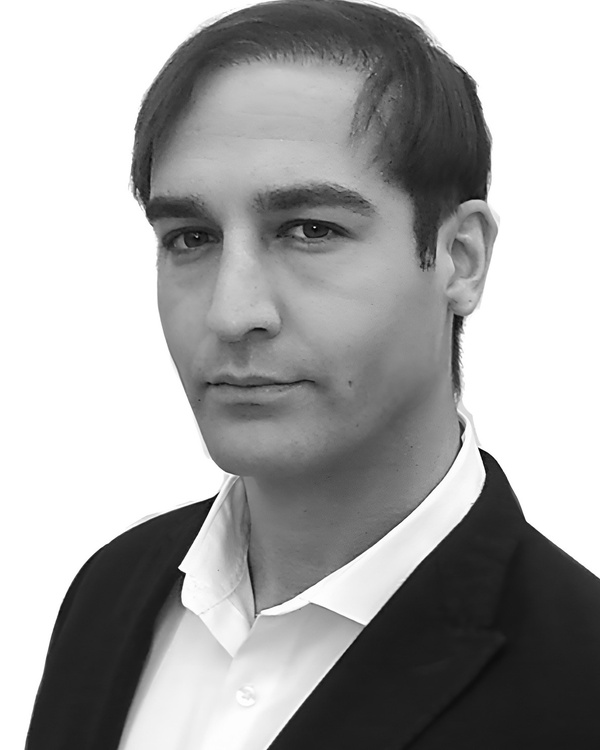
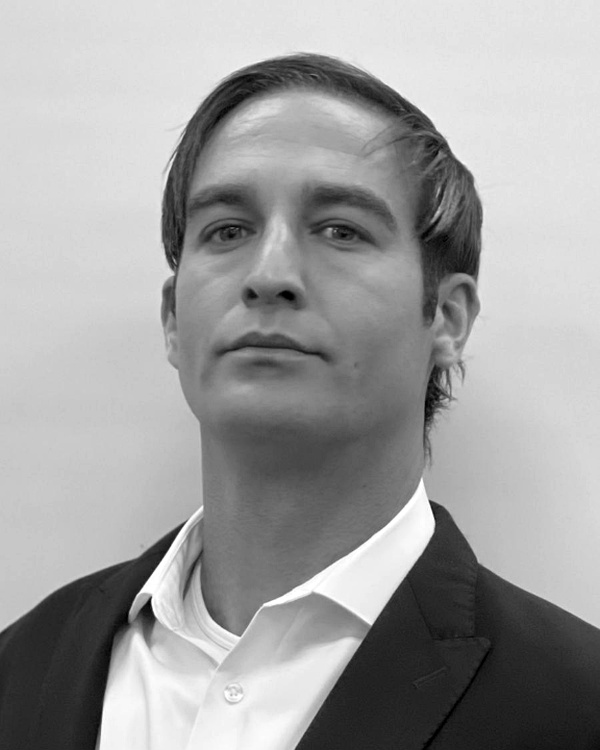
Update Jorge Eger executive photo and implement TVS Shipping image effects and hover dynamics

diff --git a/src/styles/custom.css b/src/styles/custom.css
@@ -1692,7 +1692,7 @@ ul.filter-list li,
   width: 100% !important;
   margin: 0 0 35px 0 !important;
   border: 1px solid #E6E6DF !important;
-  border-radius: 2px !important;
+  border-radius: 18px !important;
   overflow: hidden !important;
   background: #FFFFFF !important;
 }
@@ -1713,11 +1713,6 @@ ul.filter-list li,
   object-fit: cover !important;
   object-position: center !important;
   display: block !important;
-  transition: transform 0.6s cubic-bezier(0.16, 1, 0.3, 1) !important;
-}
-
-.commodities-hero-visual-box:hover .commodities-quadrant-img {
-  transform: scale(1.015) !important;
 }
 
 /* Classic Corporate Caption Bar */
@@ -2344,8 +2339,8 @@ ul.commodities-division-list > li {
 }
 
 .about-executive-image {
-  border: 1px solid #D5DCE5 !important;
-  border-radius: 2px !important;
+  border: 1px solid rgba(0, 33, 78, 0.14) !important;
+  border-radius: 56px 16px 56px 16px !important;
   overflow: hidden !important;
   background-color: #FFFFFF !important;
 }
@@ -2357,12 +2352,6 @@ ul.commodities-division-list > li {
   object-fit: cover !important;
   object-position: center center !important;
   display: block !important;
-  transition: transform 0.4s ease !important;
-}
-
-.about-executive-image:hover .about-portrait-img,
-.about-executive-image:hover .about-detail-portrait-img {
-  transform: scale(1.02);
 }
 
 .team-member-email-link:hover {
@@ -3644,3 +3633,152 @@ ul.post-list li div.post-list-content > div p {
 .twitter-user-timeline .quotation-list-datetime {
   color: #B0B8C1 !important;
 }
+
+/* ==========================================================================
+   TVS SHIPPING (tvs-shipping.com) AESTHETIC IMAGE SYSTEM & HOVER DYNAMICS
+   ========================================================================== */
+
+/* 1. Universal TVS Image Card Base & Interactive Canvas */
+.team-member-image,
+.about-executive-image,
+.gallery-card-image-box,
+.commodities-hero-visual-box,
+.energy-hero-image-box,
+.contact-hq-card,
+.post-list-image .image {
+  position: relative !important;
+  overflow: hidden !important;
+  border-radius: 18px !important;
+  box-shadow: 0 10px 25px -5px rgba(0, 33, 78, 0.1), 0 4px 10px -2px rgba(0, 0, 0, 0.04) !important;
+  transition: transform 0.5s cubic-bezier(0.25, 1, 0.5, 1), box-shadow 0.5s cubic-bezier(0.25, 1, 0.5, 1) !important;
+  isolation: isolate;
+  background-color: #001A3D !important;
+}
+
+/* Hover Elevation for TVS Cards */
+.team-member-image:hover,
+.gallery-card-image-box:hover,
+.commodities-hero-visual-box:hover,
+.energy-hero-image-box:hover,
+.contact-hq-card:hover,
+.post-list-image .image:hover {
+  transform: translateY(-6px) !important;
+  box-shadow: 0 22px 45px -8px rgba(0, 33, 78, 0.22), 0 8px 18px -4px rgba(0, 0, 0, 0.08) !important;
+}
+
+/* 2. TVS Signature Asymmetric Arch (Featured Story / Corporate Portrait) */
+.about-executive-image {
+  border-radius: 56px 16px 56px 16px !important;
+  border: 1px solid rgba(0, 33, 78, 0.14) !important;
+  box-shadow: 0 16px 36px -6px rgba(0, 33, 78, 0.18), 0 4px 12px rgba(0, 0, 0, 0.06) !important;
+}
+
+.about-executive-image:hover {
+  transform: translateY(-5px) !important;
+  box-shadow: 0 26px 50px -8px rgba(0, 33, 78, 0.26), 0 10px 20px -4px rgba(0, 0, 0, 0.1) !important;
+}
+
+/* 3. TVS Signature Asymmetric Team Headshot Framing */
+.team-member-image {
+  border-radius: 20px 8px 20px 8px !important;
+  border: 1px solid rgba(0, 33, 78, 0.1) !important;
+  cursor: pointer;
+}
+
+/* 4. TVS Smooth Cinematic Image Zoom */
+.team-member-image img,
+.team-member-portrait,
+.about-portrait-img,
+.about-detail-portrait-img,
+.gallery-card-link img,
+.commodities-quadrant-img,
+.energy-hero-img,
+.contact-hq-image,
+.post-list-image .image img {
+  width: 100% !important;
+  display: block !important;
+  transition: transform 0.65s cubic-bezier(0.25, 1, 0.5, 1), filter 0.45s ease !important;
+  will-change: transform;
+}
+
+.team-member-image:hover img,
+.team-member-image:hover .team-member-portrait,
+.about-executive-image:hover .about-portrait-img,
+.about-executive-image:hover .about-detail-portrait-img,
+.gallery-card-image-box:hover .gallery-card-link img,
+.commodities-hero-visual-box:hover .commodities-quadrant-img,
+.energy-hero-image-box:hover .energy-hero-img,
+.contact-hq-card:hover .contact-hq-image,
+.post-list-image:hover .image img {
+  transform: scale(1.06) !important;
+  filter: brightness(1.04) contrast(1.02) !important;
+}
+
+/* 5. Dynamic Light Sheen / Shimmer Sweep (Signature TVS Effect) */
+.team-member-image::after,
+.about-executive-image::after,
+.gallery-card-image-box::after,
+.commodities-image-wrapper::after,
+.energy-hero-image-box::after,
+.contact-hq-image-box::after,
+.post-list-image .image::after {
+  content: '' !important;
+  position: absolute !important;
+  top: 0 !important;
+  left: -150% !important;
+  width: 65% !important;
+  height: 100% !important;
+  background: linear-gradient(
+    90deg,
+    rgba(255, 255, 255, 0) 0%,
+    rgba(255, 255, 255, 0.28) 50%,
+    rgba(255, 255, 255, 0) 100%
+  ) !important;
+  transform: skewX(-25deg) !important;
+  transition: left 0.85s cubic-bezier(0.19, 1, 0.22, 1) !important;
+  pointer-events: none !important;
+  z-index: 10 !important;
+}
+
+.team-member-image:hover::after,
+.about-executive-image:hover::after,
+.gallery-card-image-box:hover::after,
+.commodities-hero-visual-box:hover .commodities-image-wrapper::after,
+.energy-hero-image-box:hover::after,
+.contact-hq-card:hover .contact-hq-image-box::after,
+.post-list-image:hover .image::after {
+  left: 175% !important;
+}
+
+/* 6. Refined Team Card Caption Bar */
+.team-member-image .image-description {
+  position: relative !important;
+  z-index: 2 !important;
+  background: #00214E !important;
+  border-top: 1px solid rgba(255, 255, 255, 0.08) !important;
+  transition: background-color 0.35s ease !important;
+}
+
+.team-member-image:hover .image-description {
+  background: #001A3D !important;
+}
+
+.team-member-image .image-description h5 {
+  color: #FFFFFF !important;
+  font-weight: 700 !important;
+}
+
+.team-member-image .image-description .team-position {
+  color: #8EB9E5 !important;
+}
+
+/* Mobile & Responsive Adaptations */
+@media (max-width: 767px) {
+  .about-executive-image {
+    border-radius: 36px 12px 36px 12px !important;
+  }
+  .team-member-image {
+    border-radius: 16px 8px 16px 8px !important;
+  }
+}
+

diff --git a/src/components/EnergyProductsSection.jsx b/src/components/EnergyProductsSection.jsx
@@ -25,21 +25,11 @@ export default function EnergyProductsSection() {
         <div className="energy-products-container">
           {/* Left Column: High-Impact Refinery Image */}
           <div className="energy-hero-column">
-            <div
-              className="energy-hero-image-box"
-              style={{
-                position: 'relative',
-                borderRadius: '2px',
-                overflow: 'hidden',
-                boxShadow: '0 8px 24px rgba(0, 33, 78, 0.12)',
-                border: '1px solid #E6E6DF'
-              }}
-            >
+            <div className="energy-hero-image-box">
               <img
                 src="/image/energy_products.jpg"
                 alt={t.energyProducts.imageAlt}
                 className="energy-hero-img"
-                style={{ width: '100%', height: '100%', objectFit: 'cover', display: 'block' }}
               />
               <div
                 className="energy-hero-gradient-overlay"

diff --git a/src/components/TeamSection.jsx b/src/components/TeamSection.jsx
@@ -78,16 +78,11 @@ export default function TeamSection() {
               <div className="layout-p-33x66 clear-fix">
                 {/* Left column */}
                 <div className="column-left">
-                  <div className="image team-member-image" style={{ borderRadius: '2px', overflow: 'hidden' }}>
+                  <div className="image team-member-image">
                     <img
                       src={member.image}
                       alt={member.name}
-                      style={{
-                        width: '100%',
-                        display: 'block',
-                        borderRadius: '2px 2px 0 0',
-                        objectFit: 'cover'
-                      }}
+                      className="team-member-portrait"
                     />
 
                     <div className="image-description">
